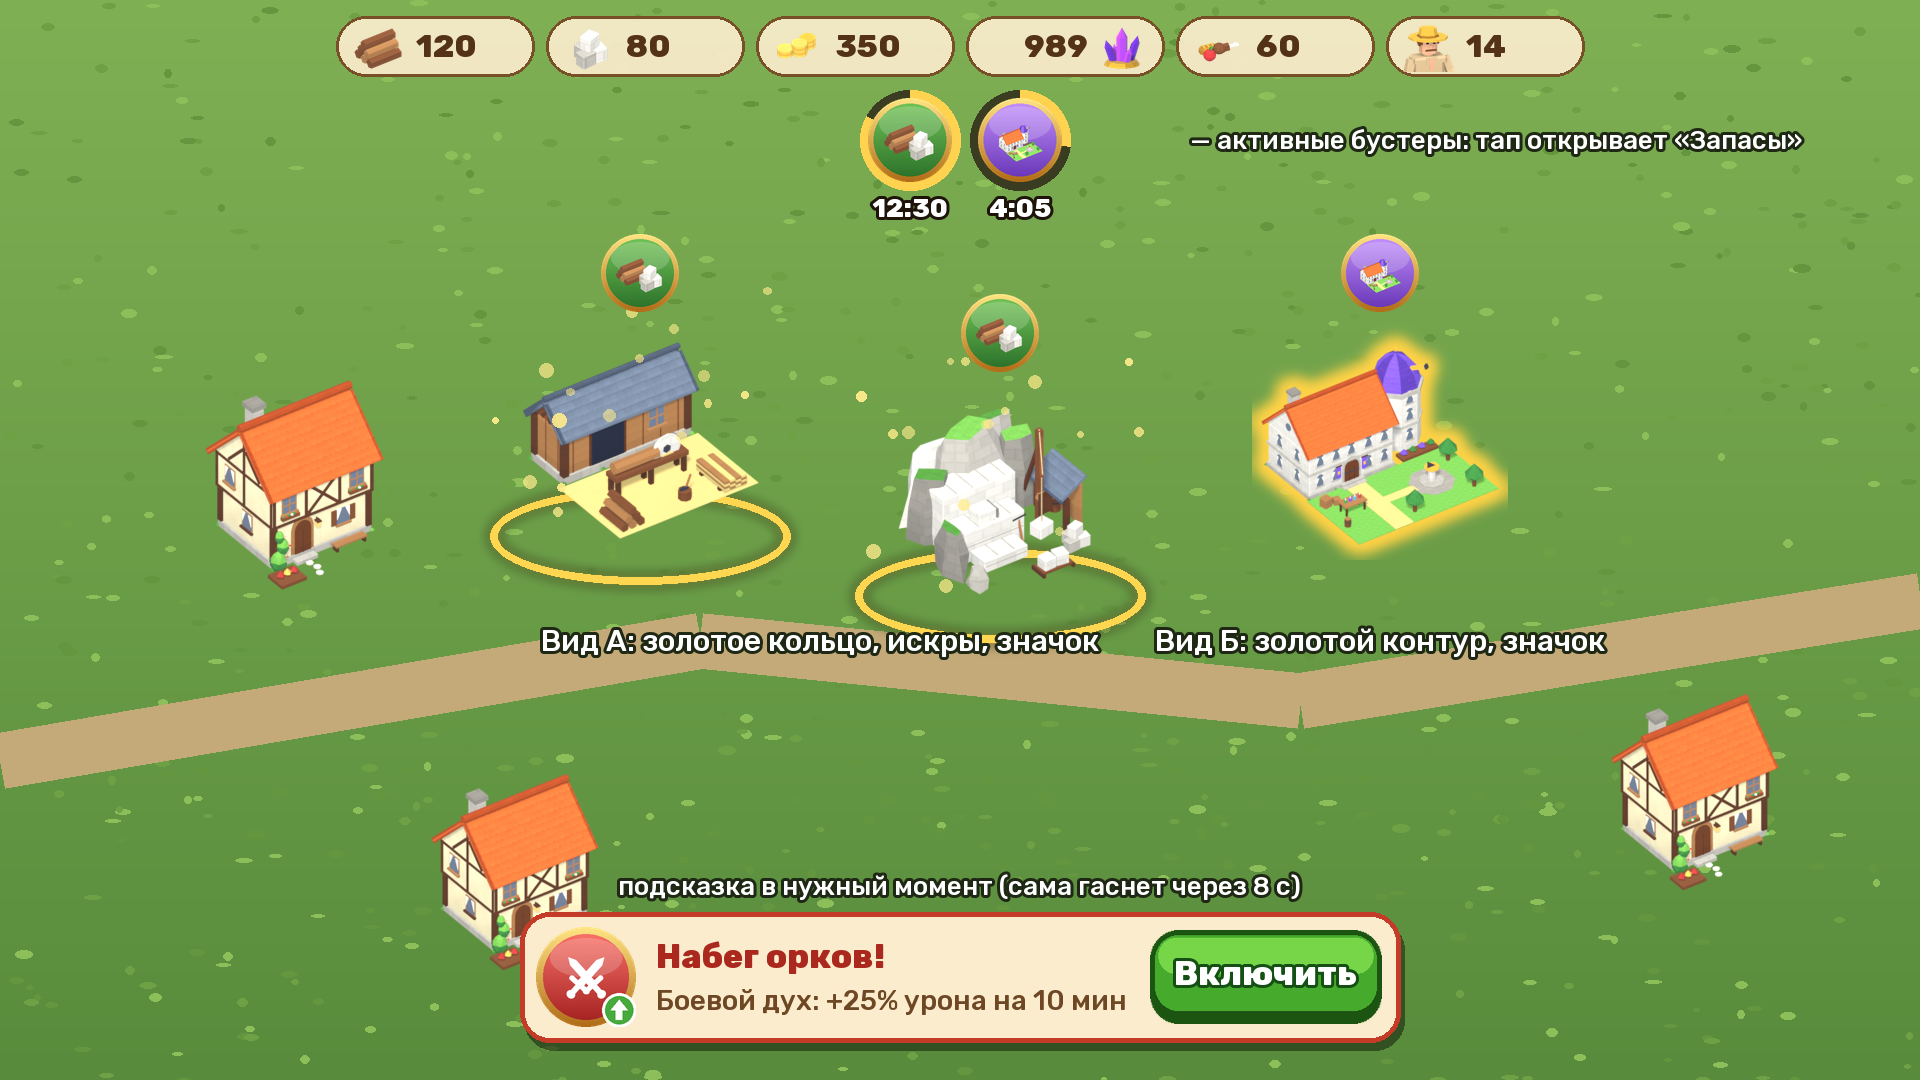
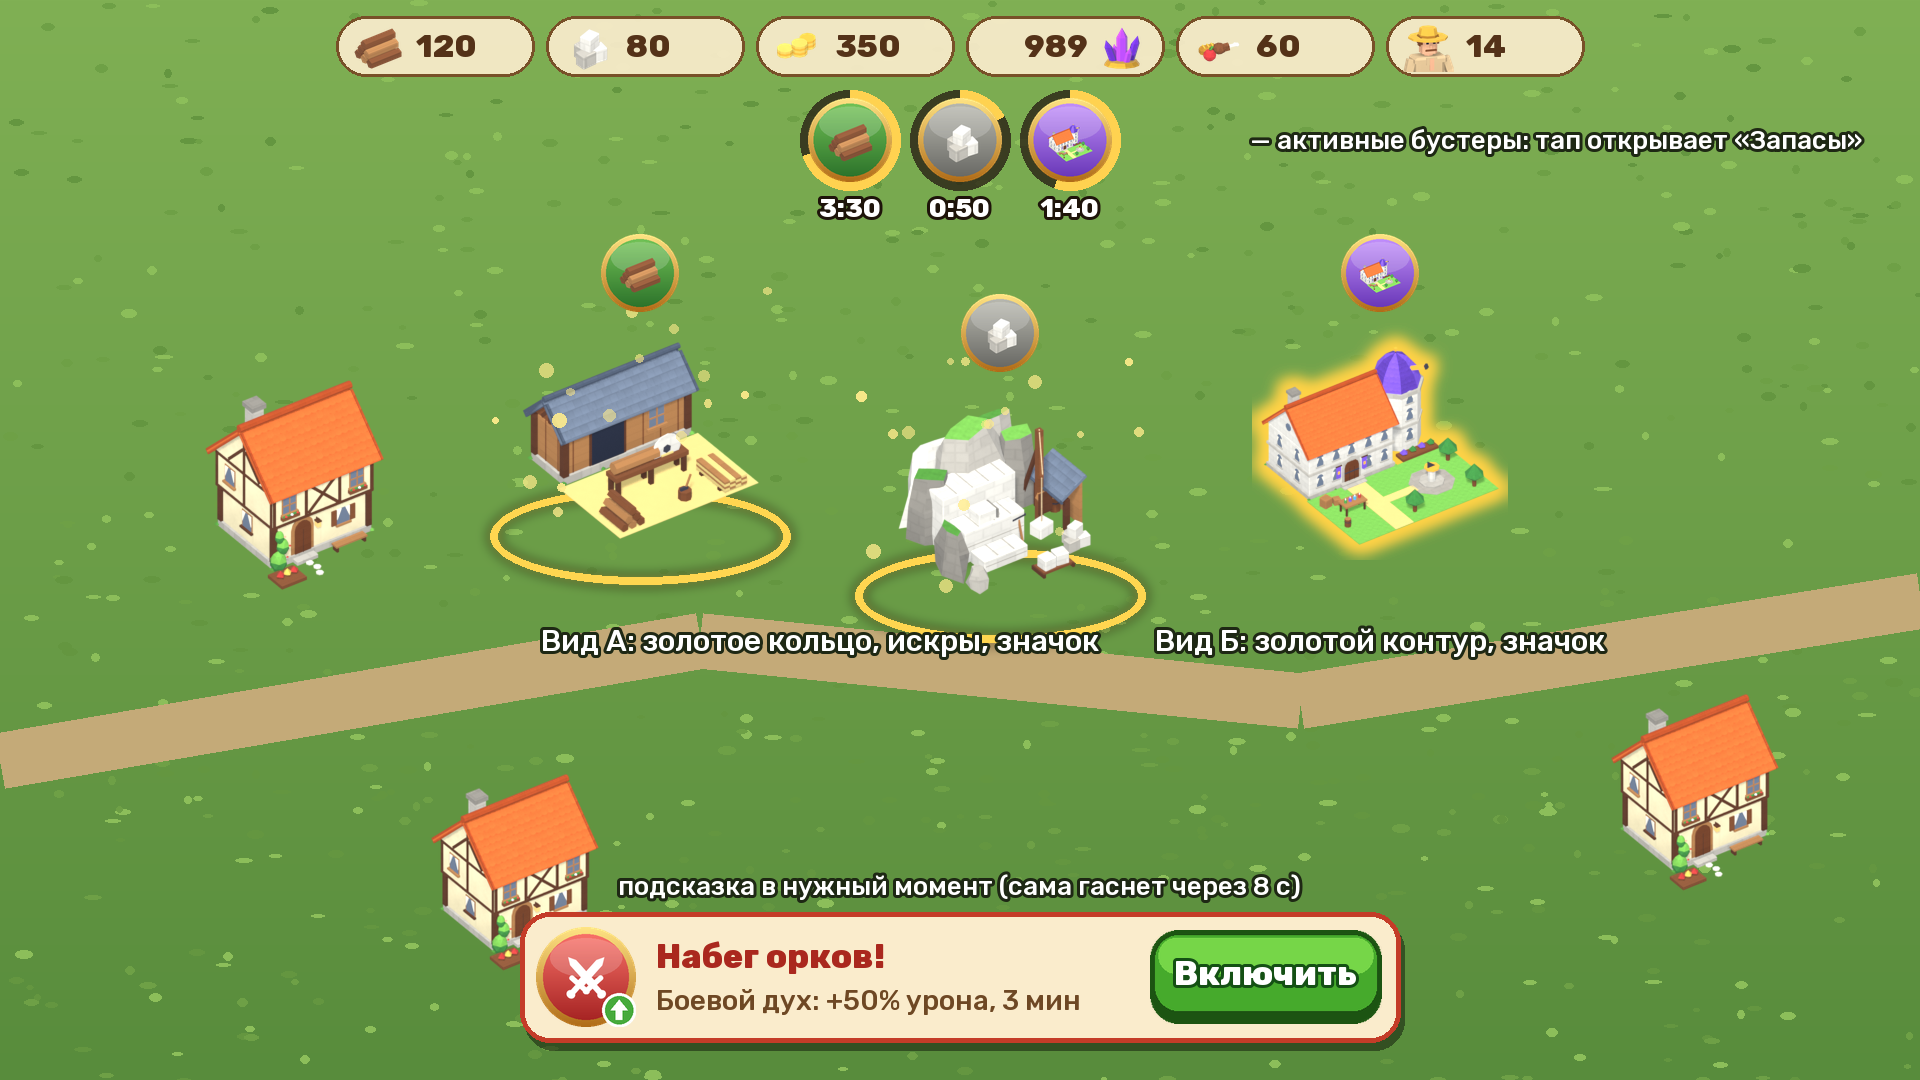
Boosters: town HUD concept re-indexed to the round-5 list (Лесоруб, Каменотёс, Учёный running; Боевой дух hint)

diff --git a/Tools/store/booster_mockup.py b/Tools/store/booster_mockup.py
@@ -320,10 +320,11 @@ def hud():
     W, H = 1920, 1080
     img = ground(W, H).convert('RGBA')
     sawmill = BOOSTERS[0]
-    lab = BOOSTERS[3]
+    stone = BOOSTERS[1]
+    lab = BOOSTERS[5]
     building(img, 'Icons/Cottage.png', 300, 600, 260)
     building(img, 'Icons/Sawmill.png', 640, 560, 300, 'A', sawmill[5], sawmill[6])
-    building(img, 'Icons/Quarry.png', 1000, 620, 290, 'A', sawmill[5], sawmill[6])
+    building(img, 'Icons/Quarry.png', 1000, 620, 290, 'A', stone[5], stone[6])
     building(img, 'Icons/Laboratory.png', 1380, 560, 300, 'B', lab[5], lab[6])
     building(img, 'Icons/Cottage.png', 1700, 900, 240)
     building(img, 'Icons/Cottage.png', 520, 980, 240)
@@ -351,8 +352,8 @@ def hud():
         x += cw
 
     # the active boosters: a row of medallions with a ring of time left under the top bar
-    for k, (b, left, frac) in enumerate(((BOOSTERS[0], '12:30', 0.83), (BOOSTERS[3], '4:05', 0.27))):
-        cx, cy, r = W / 2 - 50 + k * 110, 140, 42
+    for k, (b, left, frac) in enumerate(((BOOSTERS[0], '3:30', 0.70), (BOOSTERS[1], '0:50', 0.17), (BOOSTERS[5], '1:40', 0.55))):
+        cx, cy, r = W / 2 - 110 + k * 110, 140, 42
         ring = Image.new('RGBA', img.size, (0, 0, 0, 0))
         rd = ImageDraw.Draw(ring)
         rd.ellipse((cx - r - 8, cy - r - 8, cx + r + 8, cy + r + 8), fill=(40, 30, 20, 200))
@@ -361,11 +362,11 @@ def hud():
         img.alpha_composite(medallion(2 * r, b[5], b[6], arrow=False), (int(cx - r), int(cy - r)))
         d = ImageDraw.Draw(img)
         m.text(d, (cx, cy + r + 26), left, 26, 'white', stroke=3, stroke_fill=(30, 20, 10))
-    m.text(d, (W / 2 + 230, 140), '— активные бустеры: тап открывает «Запасы»', 26, 'white', anchor='lm', stroke=3,
+    m.text(d, (W / 2 + 290, 140), '— активные бустеры: тап открывает «Запасы»', 26, 'white', anchor='lm', stroke=3,
            stroke_fill=(30, 40, 20), path=med)
 
     # the hint at the right moment: a raid starts and «Боевой дух» is in stock
-    b = BOOSTERS[4]
+    b = BOOSTERS[6]
     hx0, hy0, hw, hh = 520, 912, 880, 130
     m.over(img, lambda g: g.rounded_rectangle((hx0 + 4, hy0 + 8, hx0 + hw + 4, hy0 + hh + 8), 30, fill=(0, 0, 0, 110)))
     d = ImageDraw.Draw(img)
@@ -373,7 +374,7 @@ def hud():
     img.alpha_composite(medallion(100, b[5], b[6]), (hx0 + 16, hy0 + 15))
     d = ImageDraw.Draw(img)
     m.text(d, (hx0 + 136, hy0 + 44), 'Набег орков!', 34, (170, 40, 30), anchor='lm')
-    m.text(d, (hx0 + 136, hy0 + 88), 'Боевой дух: +25% урона на 10 мин', 28, (110, 72, 36), anchor='lm', path=med)
+    m.text(d, (hx0 + 136, hy0 + 88), 'Боевой дух: +50% урона, 3 мин', 28, (110, 72, 36), anchor='lm', path=med)
     gb = (hx0 + hw - 250, hy0 + 18, hx0 + hw - 18, hy0 + hh - 18)
     m.paste(img, m.SHOP + 'ButtonGreen.png', gb, keep=False)
     d = ImageDraw.Draw(img)
